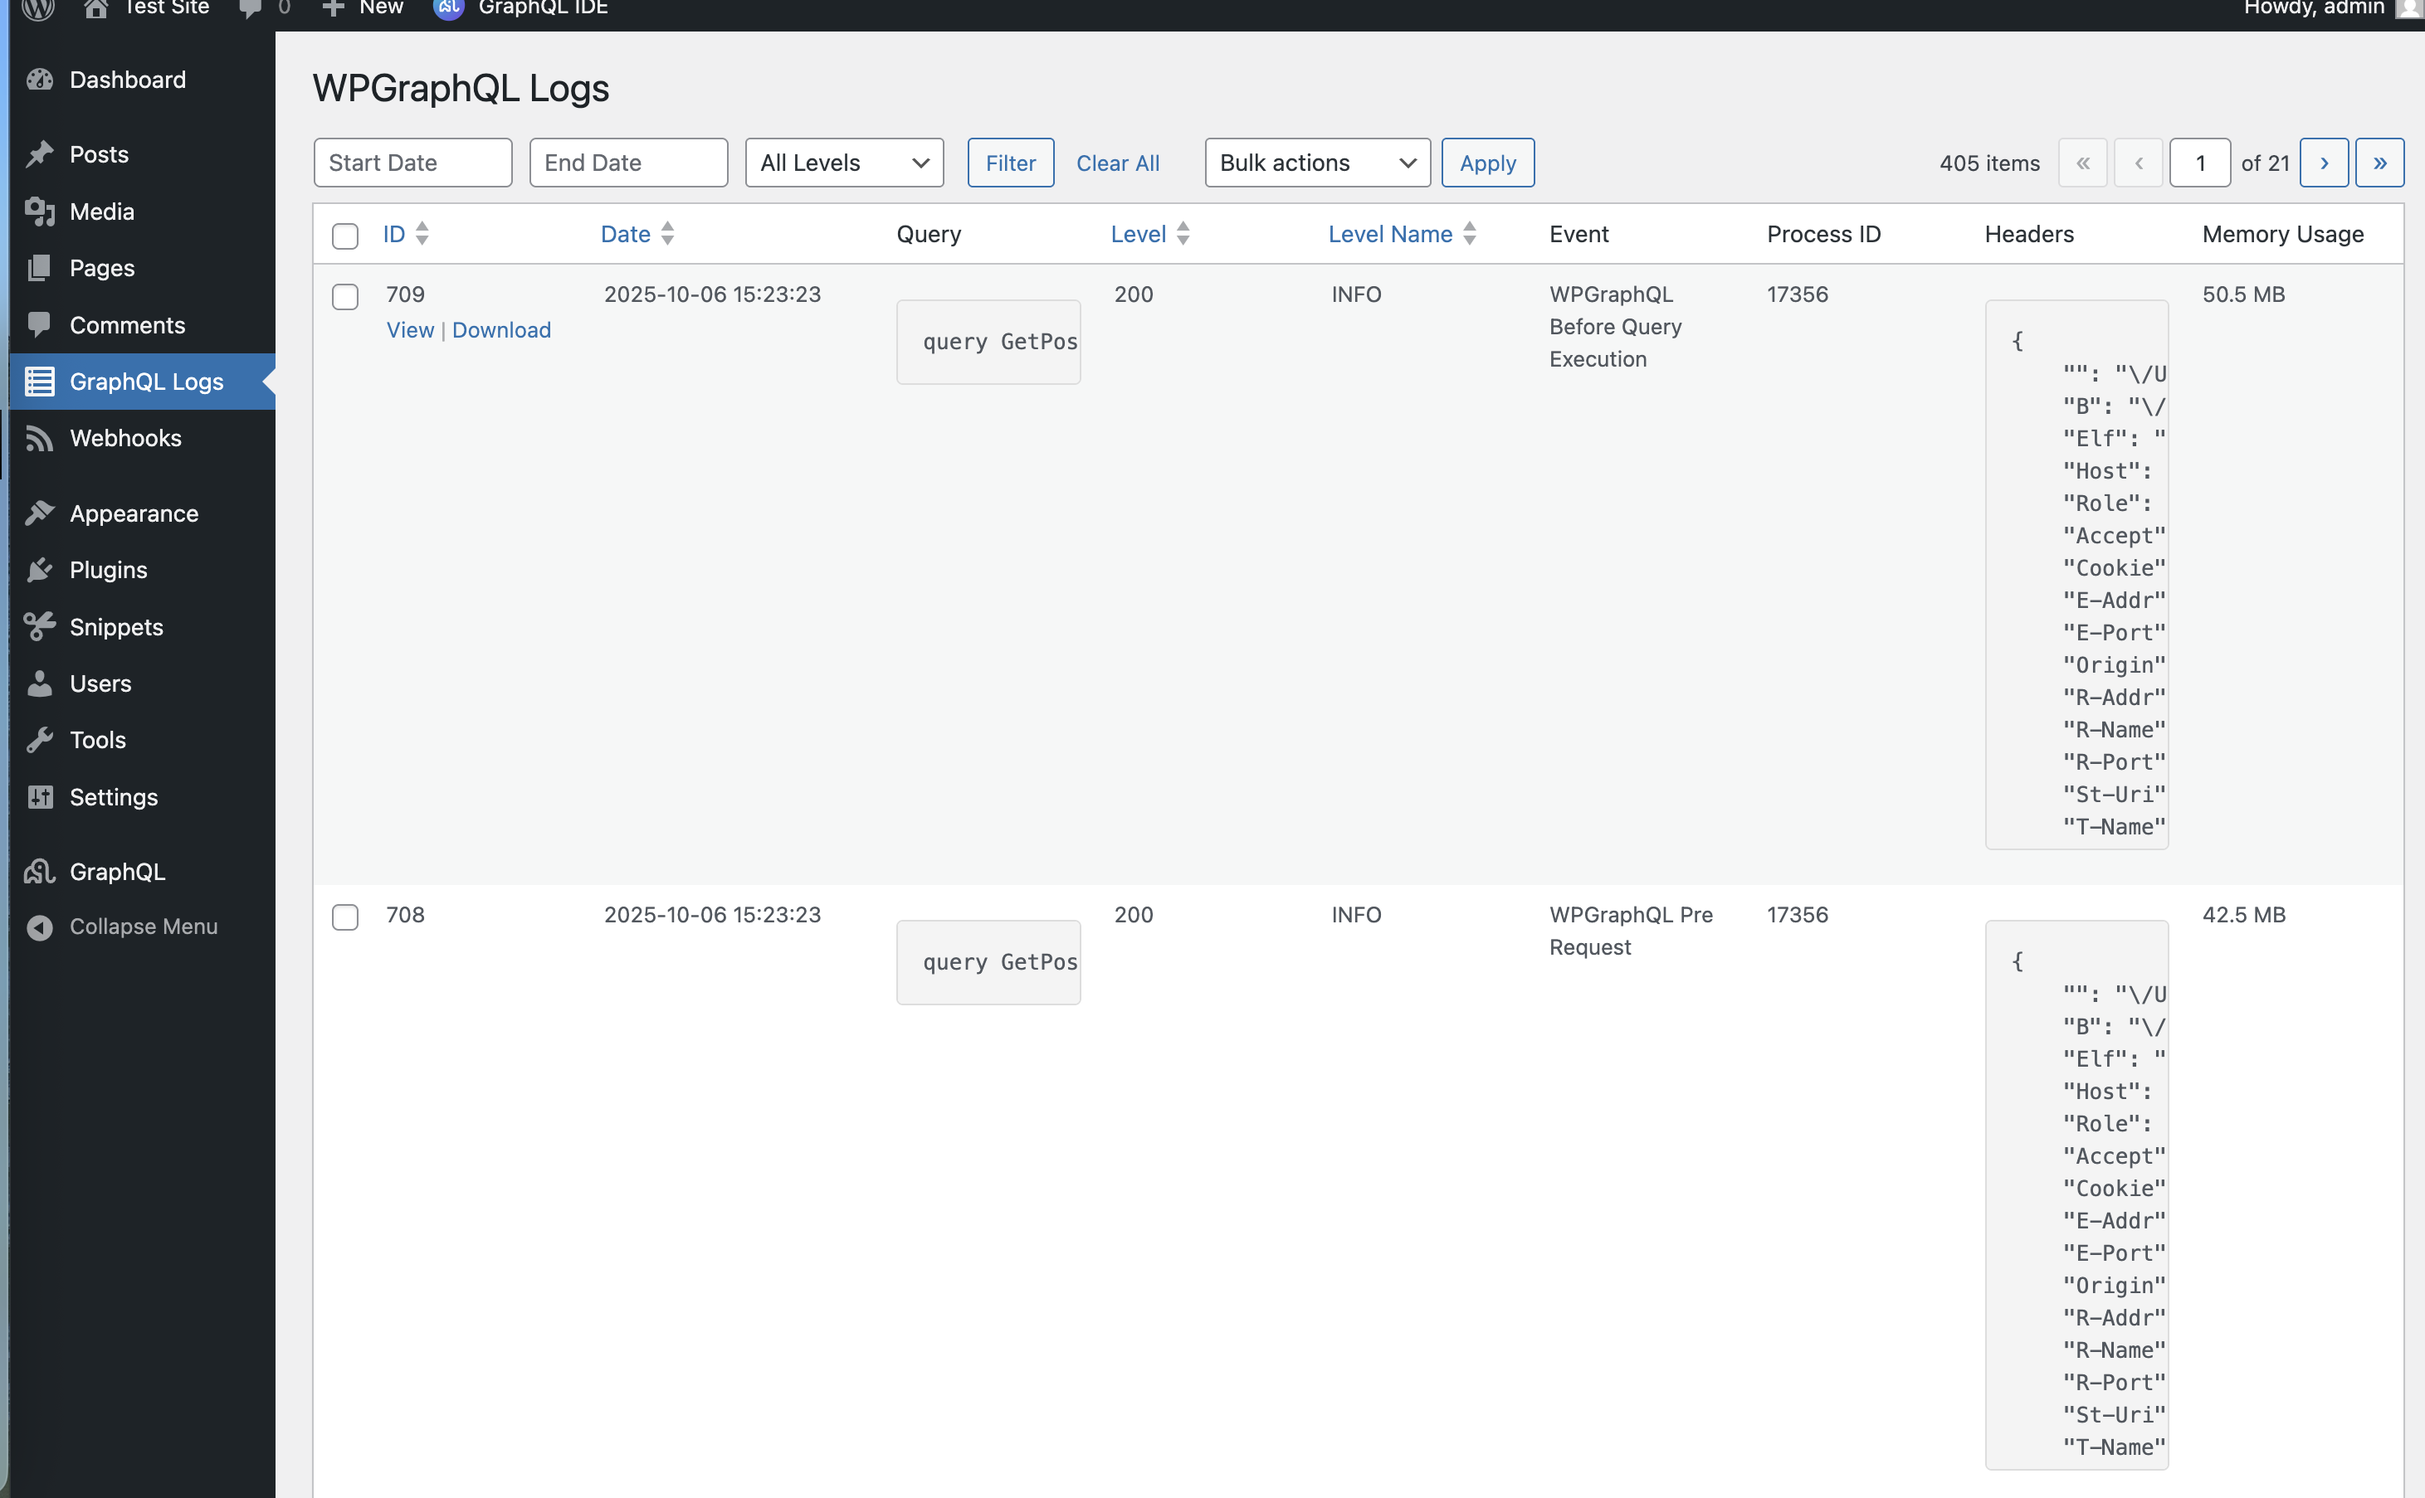
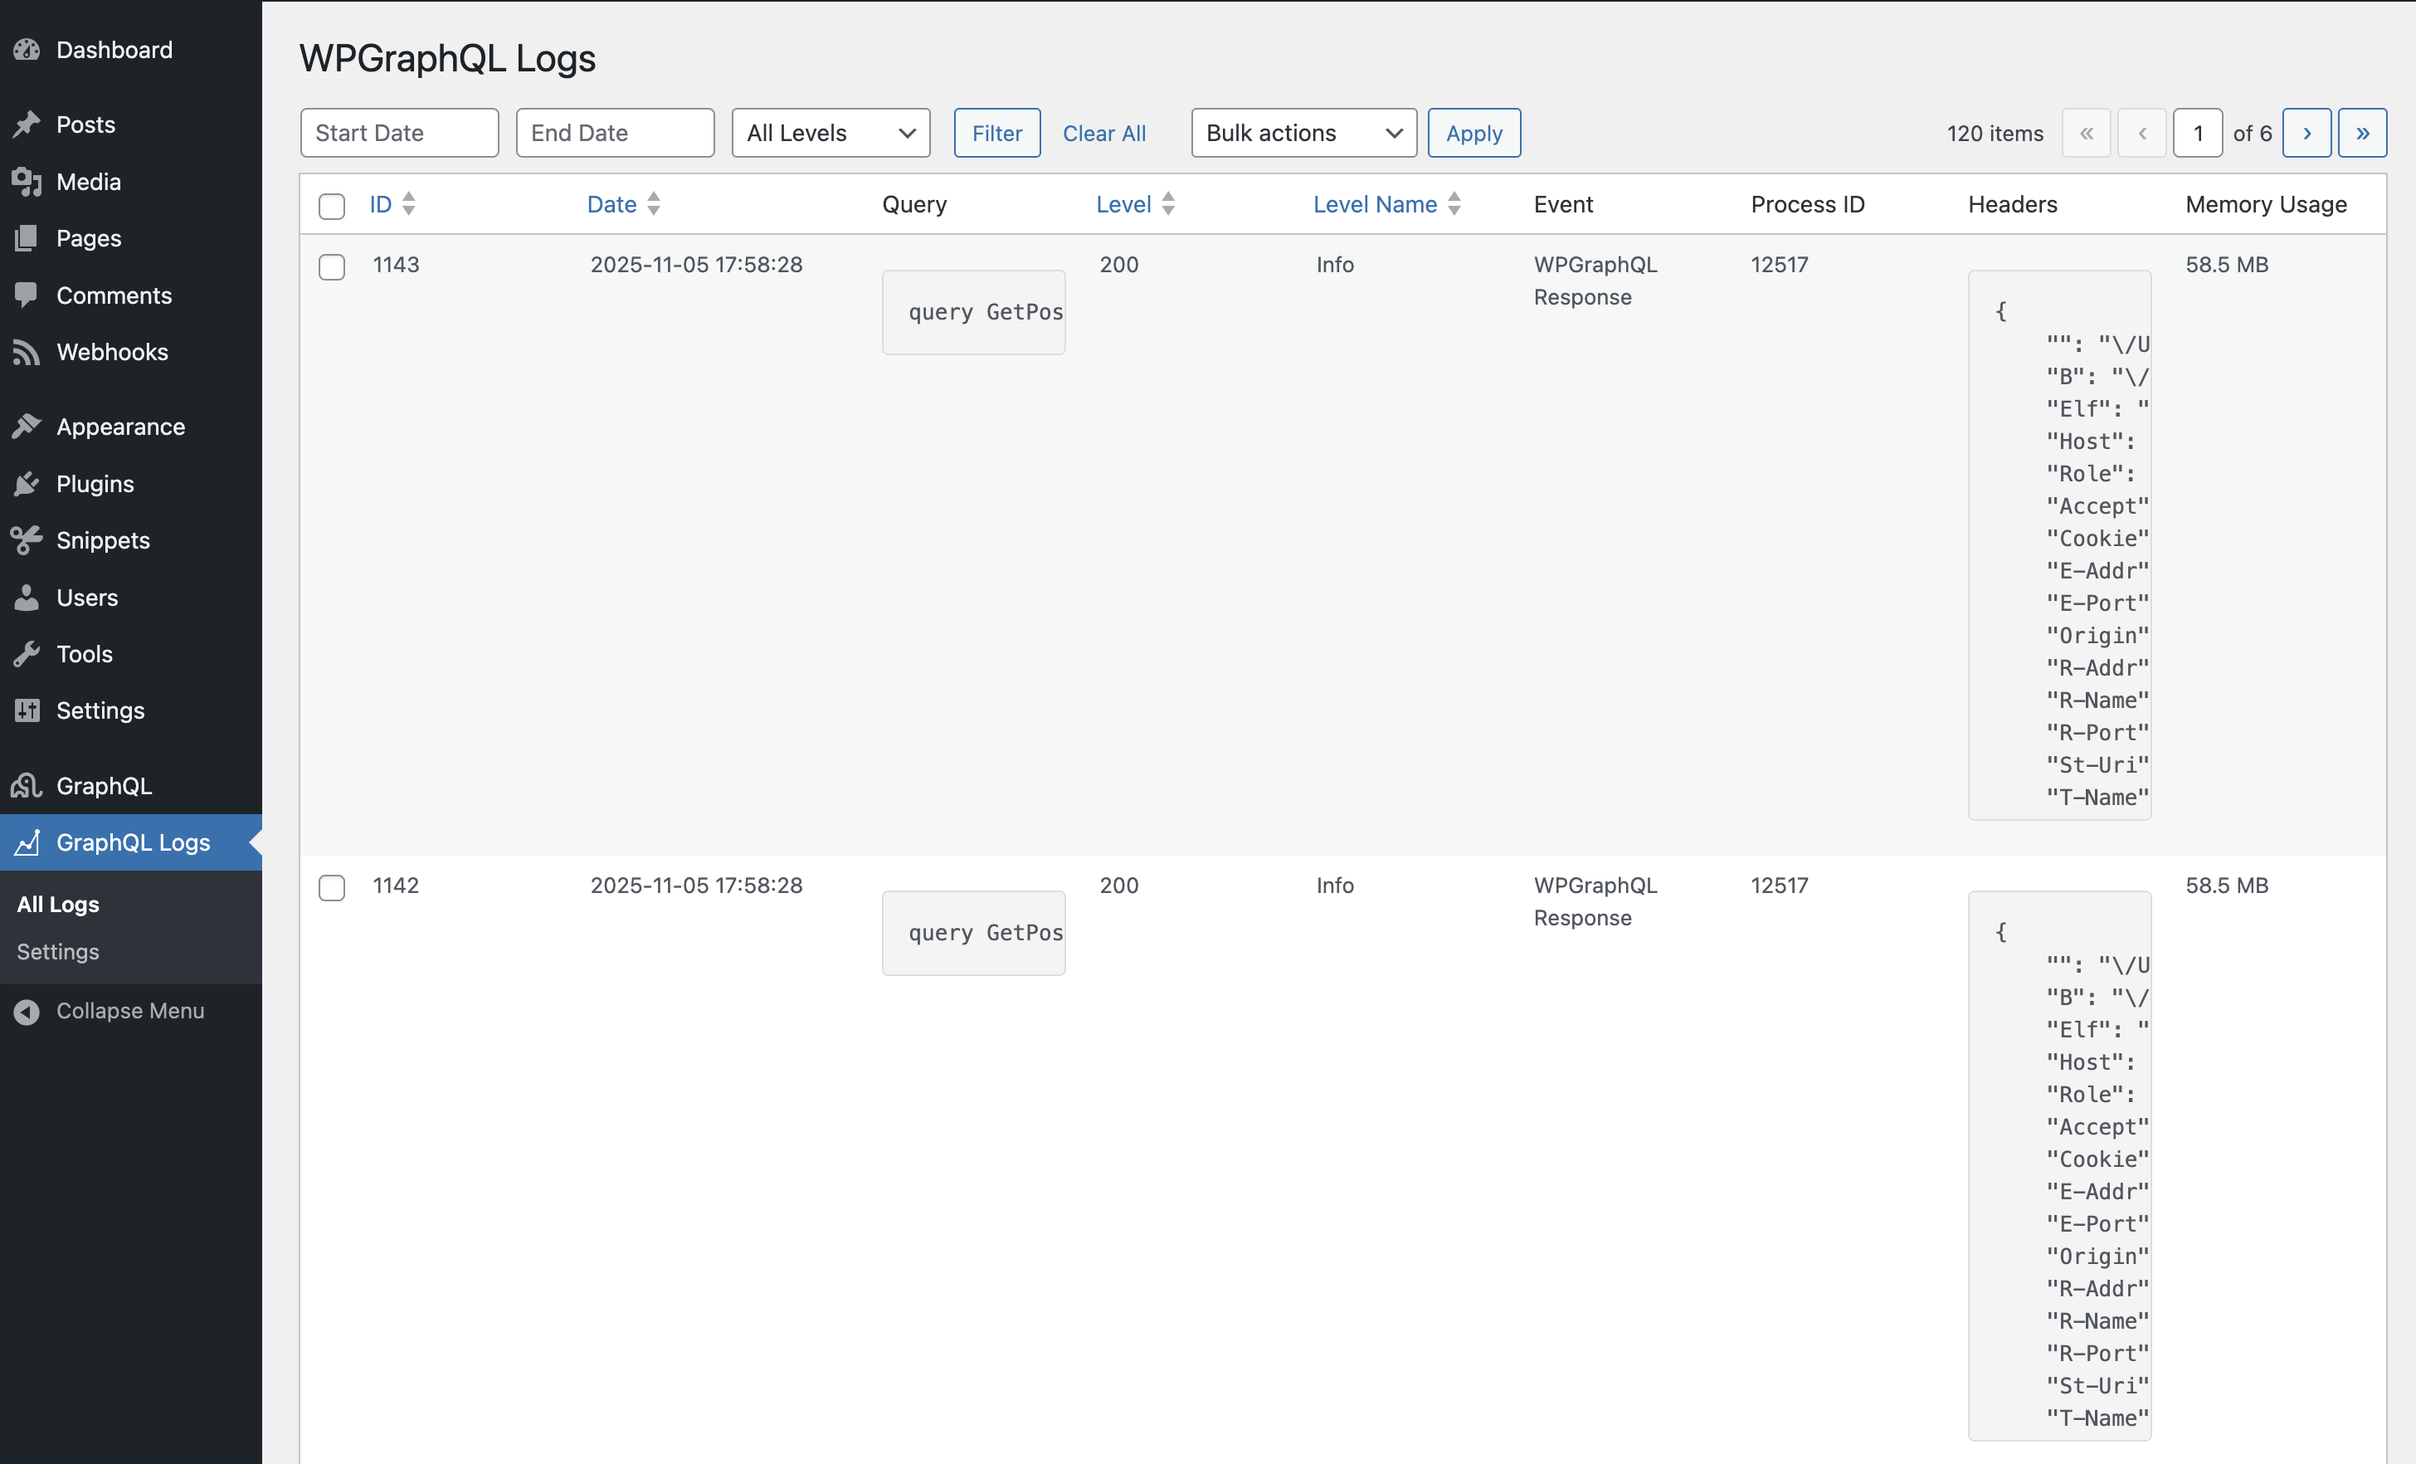
Updated docs for index and updated screenshots too.

diff --git a/docs/plugins/wpgraphql-logging/index.md b/docs/plugins/wpgraphql-logging/index.md
@@ -1,5 +1,7 @@
 # WPGraphQL Logging
 
+WPGraphQL Logging is a comprehensive logging utility for WPGraphQL. It provides detailed insights into the GraphQL lifecycle, from initial request to final response, helping developers debug queries, monitor performance, and secure their applications. This plugin is built to be extensible, allowing you to customize everything from data storage to logging rules.
+
 ## Table of Contents
 
 - [Project Structure](#project-structure)
@@ -18,27 +20,30 @@
 
 ```text
 wpgraphql-logging/
+├── assets/                     # Main plugin assets for CSS and JS
 ├── src/                        # Main plugin source code
 │   ├── Admin/                  # Admin settings, menu, and settings page logic
-│   	├── Settings/             # Admin settings functionality for displaying and saving data.
+│   │   └── Settings/           # Admin settings functionality for displaying and saving data.
 │   ├── Events/                 # Event logging, pub/sub event manager for extending the logging.
 │   ├── Logger/                 # Logger service, Monolog handlers & processors
-│   	├── Api/            			# Api interfaces for fetching and writing log data
-│   	├── Database/            	# Database entity and helper
-│   	├── Handlers/            	# Monolog WordPress database handler for logging data
-│   	├── Processors/           # Monolog processors for data sanitization and request headers
-│   	├── Rules/            		# Rules and RuleManager to decide whether to log a query
-│   	├── Scheduler/            # Automated data cleanup and maintenance tasks
+│   │   ├── Api/                # Api interfaces for fetching and writing log data
+│   │   ├── Database/           # Database entity and helper
+│   │   ├── Handlers/           # Monolog WordPress database handler for logging data
+│   │   ├── Processors/         # Monolog processors for data sanitization and request headers
+│   │   ├── Rules/              # Rules and RuleManager to decide whether to log a query
+│   │   ├── Scheduler/          # Automated data cleanup and maintenance tasks
+│   │   └── Store/              # Log storage service
 │   ├── Plugin.php              # Main plugin class (entry point)
 │   └── Autoloader.php          # PSR-4 autoloader
 ├── tests/                      # All test suites
-│   ├── wpunit/                 # WPBrowser/Codeception unit tests
+│   ├── e2e/                    # End-to-end tests
+│   └── wpunit/                 # WPBrowser/Codeception unit tests
 ├── [wpgraphql-logging.php]
 ├── [activation.php]
 ├── [composer.json]
 ├── [deactivation.php]
-├── [TESTING.md]
-├── [README.md]
+├── [CHANGELOG.md]
+└── [README.md]
 ```
 
 ---
@@ -49,6 +54,9 @@ wpgraphql-logging/
   - **Pre Request** (`do_graphql_request`): captures `query`, `variables`, `operation_name`.
   - **Before Execution** (`graphql_before_execute`): snapshots request `params`.
   - **Before Response Returned** (`graphql_return_response`): inspects `response`; auto-elevates level to Error when GraphQL `errors` are present (adds `errors` to context).
+  - **Request Data** (`graphql_request_data`): filters and logs the raw `query`, `variables`, and `operationName` from the request body.
+  - **Response Headers** (`graphql_response_headers_to_send`): filters response headers, adds `X-WPGraphQL-Logging-ID` for traceability.
+  - **Request Results** (`graphql_request_results`): filters and logs the final `response`; auto-elevates level to Error when GraphQL `errors` are present.
 
 - **Developer-friendly pub/sub and transform system**
   - Programmatic API: `Plugin::on($event, $listener)`, `Plugin::transform($event, $callable)`, `Plugin::emit($event, $payload)`.
@@ -71,7 +79,7 @@ wpgraphql-logging/
 
 - **Automated data management**
   - **Daily cleanup scheduler**: removes old logs based on retention.
-  - **Configurable retention period**: choose days to keep (default 30).
+  - **Configurable retention period**: choose days to keep (default 7).
   - **Manual cleanup**: trigger from the admin UI.
   - **Data sanitization**: built-in `DataSanitizationProcessor` removes/anonymizes/truncates sensitive fields with recommended or custom rules.
 
@@ -87,7 +95,26 @@ wpgraphql-logging/
 
 ## Setup
 
-Once the plugin is activated, you can activate and configure the plugin under Settings -> WPGraphQL Logging
+Once the plugin is installed and activated, you can configure the plugin under GraphQL Logs -> Settings.
+
+>[!IMPORTANT]
+> Once activated, the plugin will install default configuration and activate logging with data sampling set at 10%.
+
+When you install for the first time it sets the following default configuration:
+
+**Basic Configuration**
+- Enabled = true
+- Exclude Queries = `__schema,GetSeedNode` - To exclude introspection and Faust Seed Node queries.
+- Data Sampling = 10% - Log only 10% of the queries.
+- Log Points - Selects all
+
+**Data Management**
+
+- Data Deletion Enabled = true
+- Number of Days to Retain Logs = 7
+- Data Sanitization Enabled = true
+- Data Sanitization Method = Recommended
+
 
 ### Basic Configuration
 
@@ -113,28 +140,26 @@ Once the plugin is activated, you can activate and configure the plugin under Se
 - **Log Retention Period**: Specify the number of days to keep log data before it is automatically deleted.
 - **Enable Data Sanitization**: The master switch to turn data sanitization on or off. When enabled, sensitive data is cleaned from logs before being stored.
 - **Data Sanitization Method**: Choose between two sanitization methods:
-	- **Recommended Rules (Default)**: Uses pre-configured rules to automatically sanitize common sensitive fields in WordPress and WPGraphQL. The following fields are sanitized:
+	- **Recommended Rules (Default)**: Uses pre-configured rules to automatically sanitize common sensitive fields in WordPress and WPGraphQL. The following fields are sanitized by either removing them or anonymizing their values:
 		- `request.app_context.viewer.data` (User data object)
 		- `request.app_context.viewer.allcaps` (User capabilities)
 		- `request.app_context.viewer.cap_key` (Capability keys)
 		- `request.app_context.viewer.caps` (User capability array)
-	- **Custom Rules**: Provides granular control over sanitization with the following options:
-		- **Fields to Remove**: A comma-separated list of field paths (e.g., `request.app_context.viewer.data`) to completely remove from the log.
-		- **Fields to Anonymize**: A comma-separated list of field paths whose values will be replaced with `***`.
-		- **Fields to Truncate**: A comma-separated list of field paths whose string values will be truncated to 50 characters.
+		- `variables.username` (WP `user_login`)
+		- `variables.password` (User password)
+		- `variables.email` (User email)
+	- **Custom Rules**: Define your own sanitization rules by specifying fields to anonymize, remove, or truncate.
 
 
 ## Viewing Logs
 
-Once configured to log data you can find logs under "GraphQL Logs" in the WordPress Menu.
+Once setup, you can view logs under GraphQL Logs -> All Logs. The admin screen is a custom implementation of the WordPress `WP_List_Table` class and provides several powerful features for managing your logs.
 
 ![Admin View](screenshots/admin_view.png)
 
-This extends the WordPress `WP_List_Table` class but you can do the following.
+### Downloading Logs
 
-### Download the log
-
-You can download the log as CSV format e.g.
+You can download the logs in CSV format.
 
 ```csv
 ID,Date,Level,"Level Name",Message,Channel,Query,Context,Extra
@@ -144,21 +169,16 @@ ID,Date,Level,"Level Name",Message,Channel,Query,Context,Extra
 
 ### Filtering Logs
 
-You can filter the log by
-
+You can filter logs by:
 1. Level
 2. Start Date
 3. End Date
 
 ![Admin View with Filters](screenshots/admin_view_filters.png)
 
->[!NOTE]
-> The default UI highlights Info and Error levels. To customize visible columns and sorting, filter `wpgraphql_logging_logs_table_column_headers` (see Admin reference).
-
-
 ### Bulk Actions
 
-Currently you can delete selected or all logs.
+You can delete selected logs or all logs using the bulk action controls.
 
 
 ## Uninstallation and Data Cleanup
@@ -195,9 +215,16 @@ define( 'WP_GRAPHQL_LOGGING_UNINSTALL_PLUGIN', true );
 - [How to Add a New Processor](how-to/logger_add_new_processor.md)
 - [How to Add a New Rule (Query must contain string)](how-to/logger_add_new_rule.md)
 
+### Testing
+- [How to run the test suites](how-to/run_tests.md)
+
 
 ## Reference
 
 - Admin: [Actions/Filters](reference/admin.md)
 - Events: [Actions/Filters](reference/events.md)
 - Logging: [Actions/Filters](reference/logging.md)
+
+## Contributing
+
+If you feel like something is missing or you want to add documentation, we encourage you to contribute! Please check out our [Contributing Guide](https://github.com/wpengine/hwptoolkit/blob/main/CONTRIBUTING.md) for more details.
